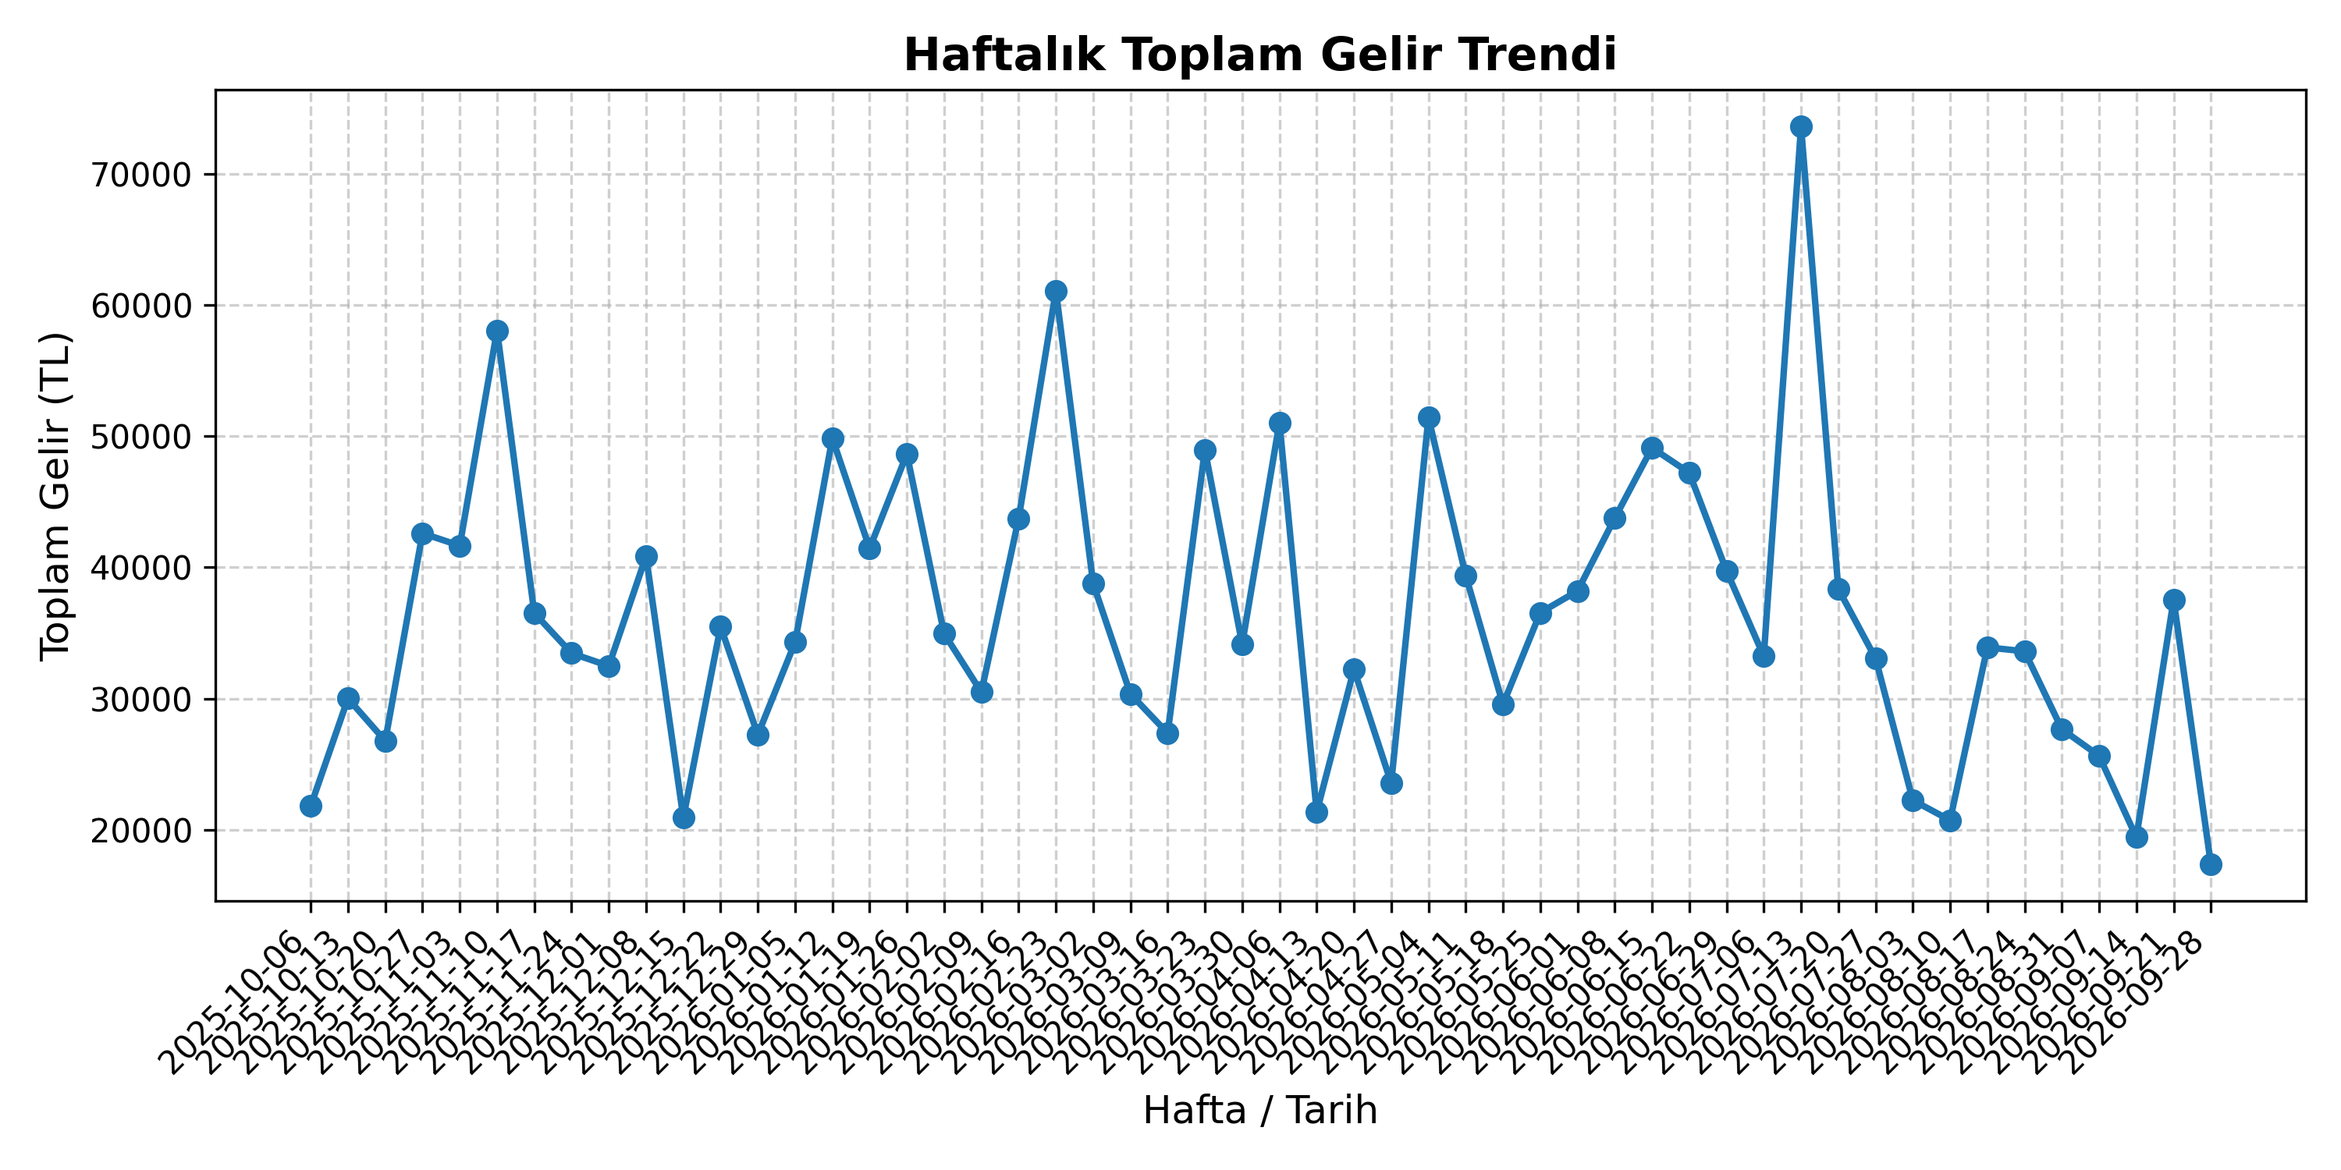
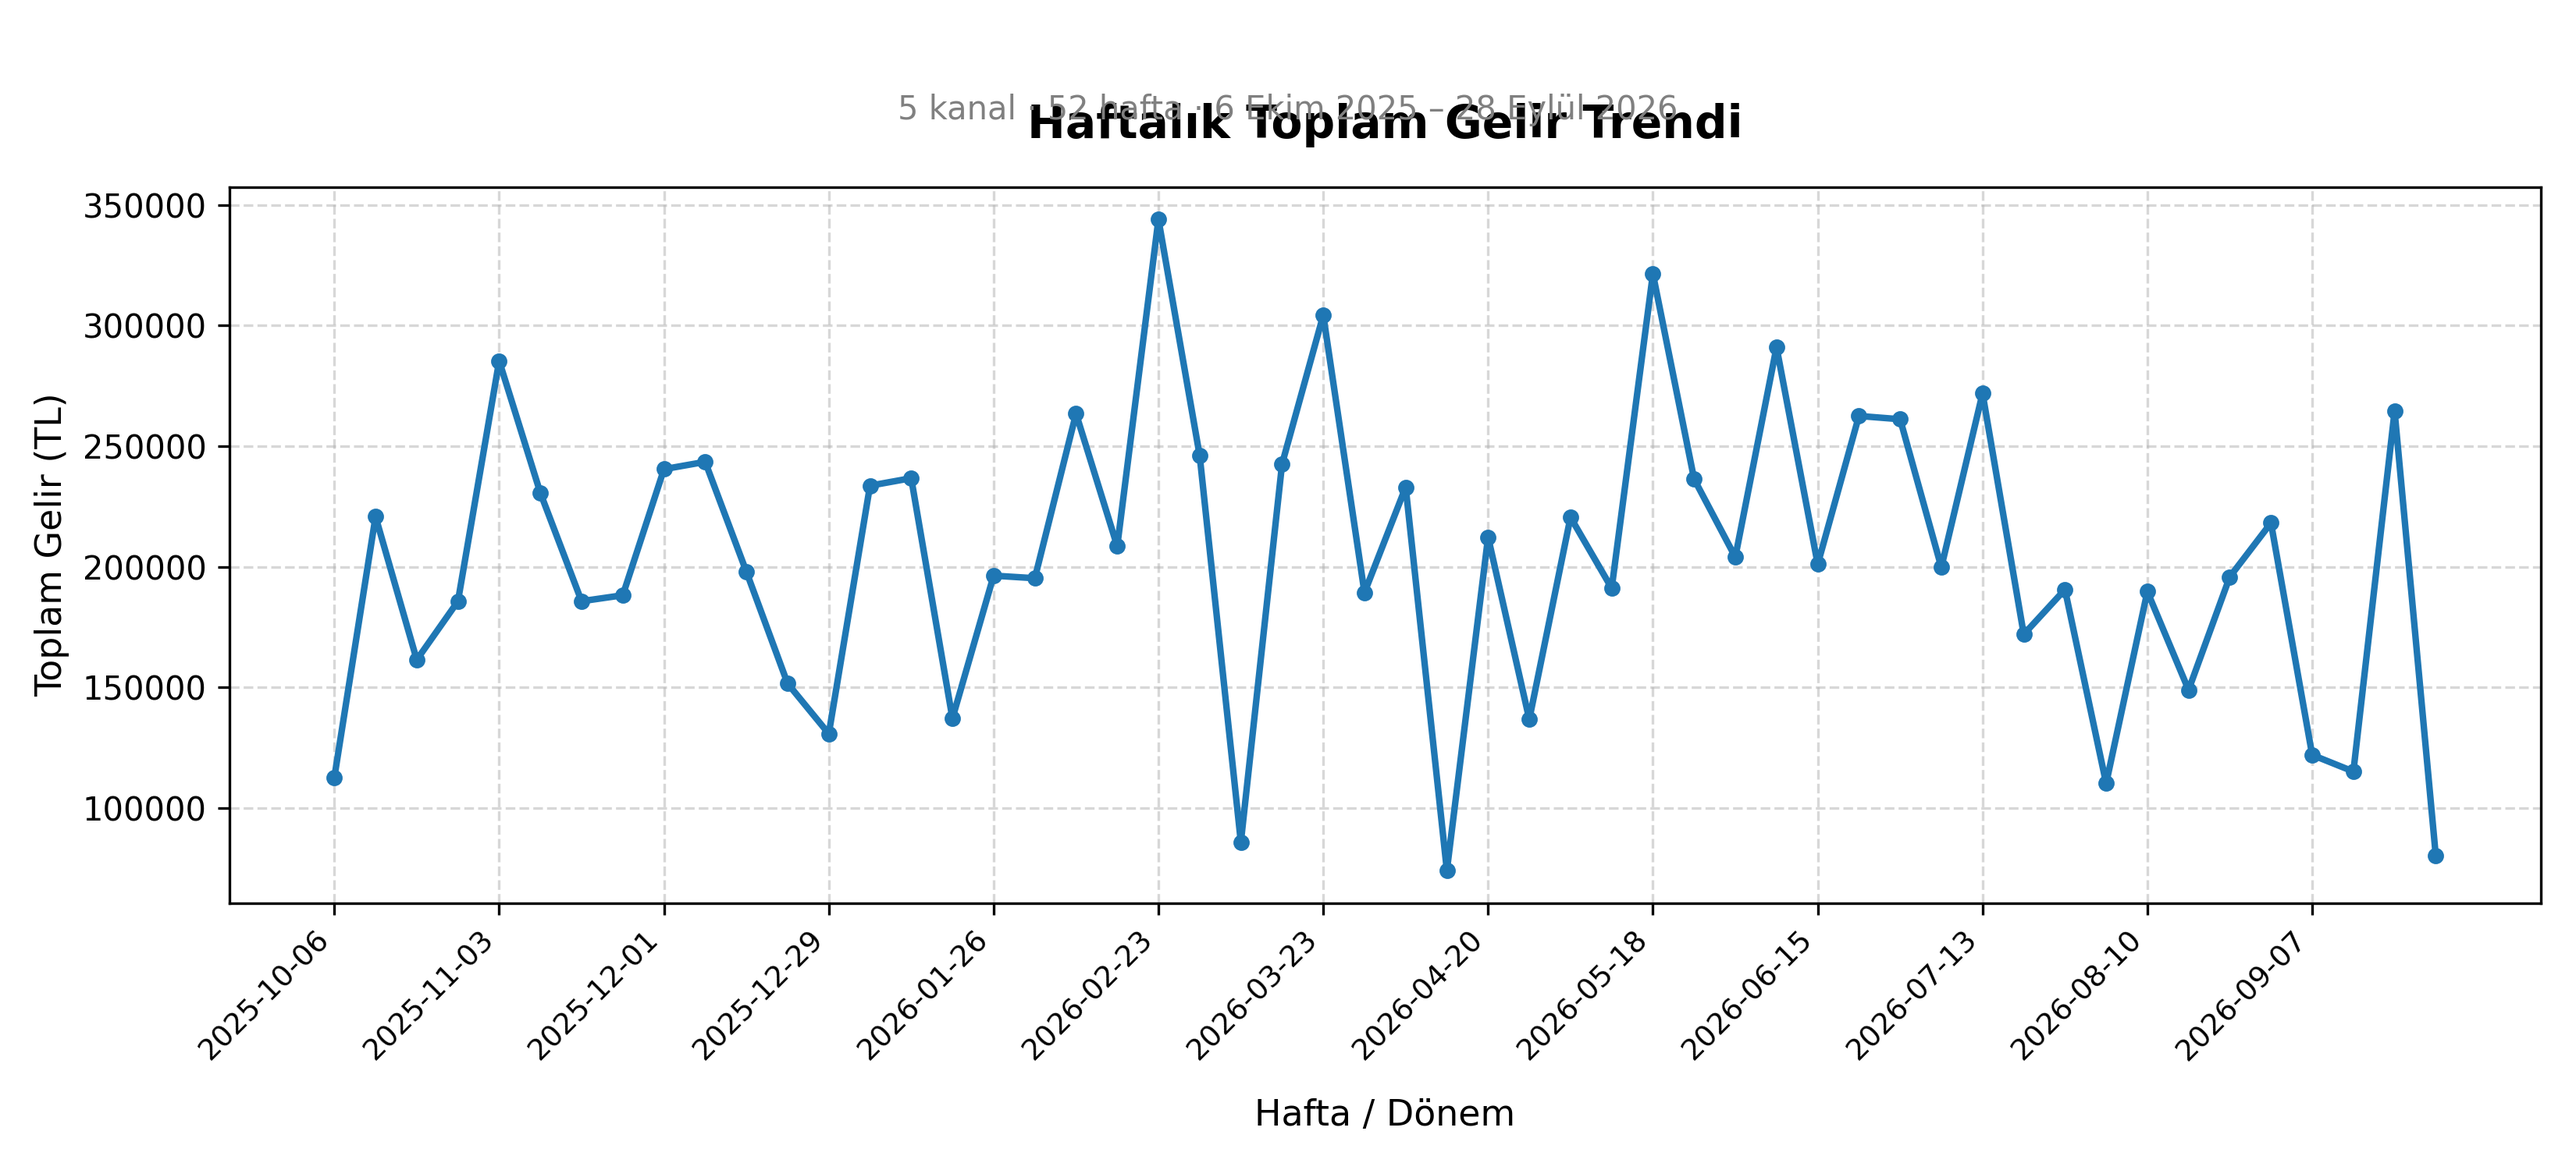
fix(fe): correct ROAS column calculation, clean x-axis ticks and add subtitle scope

diff --git a/generate_visuals.py b/generate_visuals.py
@@ -8,15 +8,31 @@ os.makedirs("visuals", exist_ok=True)
 # 260 satırlık asıl veriyi oku
 df = pd.read_csv("data/kampanya-performans.csv")
 
-# Sütun isimlerini küçük harfe çevirip düzenle
+# Sütun isimlerini küçük harfe çevirip temizle
 df.columns = df.columns.str.strip().str.lower()
 
-# Hafta veya Tarih sütununu bul
+# Sütun tespiti veya ROAS hesabı
+# Eğer roas sütunu yoksa gelir / harcama ile hesapla
+if "roas" in df.columns:
+    df["roas_val"] = df["roas"]
+elif "harcama_tl" in df.columns and "gelir_tl" in df.columns:
+    df["roas_val"] = df["gelir_tl"] / df["harcama_tl"]
+elif "harcama" in df.columns and "gelir" in df.columns:
+    df["roas_val"] = df["gelir"] / df["harcama"]
+else:
+    # Son sütun hariç roas içeren veya sayısal sütun bul
+    roas_cols = [c for c in df.columns if "roas" in c]
+    if roas_cols:
+        df["roas_val"] = df[roas_cols[0]]
+    else:
+        df["roas_val"] = df.iloc[:, -2]
+
+# Hafta ve Gelir Sütunları
 week_col = next(
     (
         c
         for c in df.columns
-        if any(k in c for k in ["hafta", "date", "tarih", "week"])
+        if any(k in c for k in ["hafta", "tarih", "date", "week"])
     ),
     df.columns[0],
 )
@@ -24,9 +40,9 @@ revenue_col = next(
     (
         c
         for c in df.columns
-        if any(k in c for k in ["gelir", "revenue", "harcama", "ciro"])
+        if any(k in c for k in ["gelir", "revenue", "ciro"])
     ),
-    df.columns[1],
+    "gelir_tl",
 )
 channel_col = next(
     (
@@ -34,56 +50,92 @@ channel_col = next(
         for c in df.columns
         if any(k in c for k in ["kanal", "channel", "medium"])
     ),
-    df.columns[2],
-)
-roas_col = next(
-    (c for c in df.columns if "roas" in c),
-    df.columns[-1] if len(df.columns) > 3 else df.columns[1],
+    "kanal",
 )
 
-# 1. Grafik: Zaman Serisi (Toplam Gelir)
-plt.figure(figsize=(10, 5))
-df_weekly = df.groupby(week_col)[revenue_col].sum().reset_index()
+# ---------------------------------------------------------
+# 1. GRAFİK: Zaman Serisi (Haftalık Toplam Gelir)
+# ---------------------------------------------------------
+plt.figure(figsize=(11, 5))
+df_weekly = df.groupby(week_col, as_index=False)[revenue_col].sum()
 
 plt.plot(
-    df_weekly[week_col].astype(str),
+    range(len(df_weekly)),
     df_weekly[revenue_col],
     marker="o",
+    markersize=4,
     linewidth=2,
     color="#1f77b4",
 )
-plt.title("Haftalık Toplam Gelir Trendi", fontsize=14, fontweight="bold")
-plt.xlabel("Hafta / Tarih", fontsize=12)
-plt.ylabel("Toplam Gelir (TL)", fontsize=12)
-plt.xticks(rotation=45, ha="right")
-plt.grid(True, linestyle="--", alpha=0.6)
+
+plt.title("Haftalık Toplam Gelir Trendi", fontsize=14, fontweight="bold", pad=15)
+plt.suptitle(
+    "5 kanal · 52 hafta · 6 Ekim 2025 – 28 Eylül 2026",
+    fontsize=10,
+    color="gray",
+    y=0.92,
+)
+
+# Etiketleri her 4 haftada bir (ayda bir) göstererek temizle
+weeks = df_weekly[week_col].astype(str).tolist()
+step = max(1, len(weeks) // 13)  # Yaklaşık ayda bir etiket
+plt.xticks(
+    range(0, len(weeks), step), weeks[::step], rotation=45, ha="right", fontsize=9
+)
+
+plt.xlabel("Hafta / Dönem", fontsize=11, labelpad=10)
+plt.ylabel("Toplam Gelir (TL)", fontsize=11)
+plt.grid(True, linestyle="--", alpha=0.5)
 plt.tight_layout()
 plt.savefig("visuals/gelir-zaman-serisi.png", dpi=300)
 plt.close()
 
-# 2. Grafik: Kırılım (Kanala Göre ROAS)
+# ---------------------------------------------------------
+# 2. GRAFİK: Kırılım (Kanala Göre Ortalama ROAS)
+# ---------------------------------------------------------
 plt.figure(figsize=(10, 5))
-df_channel = df.groupby(channel_col)[roas_col].mean().reset_index()
+df_channel = df.groupby(channel_col, as_index=False)["roas_val"].mean()
 
-bars = plt.bar(df_channel[channel_col], df_channel[roas_col], color="#2ca02c")
-plt.title("Pazarlama Kanalına Göre Ortalama ROAS", fontsize=14, fontweight="bold")
-plt.xlabel("Kanal", fontsize=12)
-plt.ylabel("ROAS (x)", fontsize=12)
+bars = plt.bar(
+    df_channel[channel_col],
+    df_channel["roas_val"],
+    color="#2ca02c",
+    width=0.55,
+)
 
+plt.title(
+    "Pazarlama Kanalına Göre Ortalama ROAS", fontsize=14, fontweight="bold", pad=15
+)
+plt.suptitle(
+    "5 kanal · 52 hafta · 6 Ekim 2025 – 28 Eylül 2026",
+    fontsize=10,
+    color="gray",
+    y=0.92,
+)
+
+plt.xlabel("Kanal", fontsize=11, labelpad=10)
+plt.ylabel("Ortalama ROAS (x)", fontsize=11)
+
+# Çubukların üzerine ROAS değerlerini yaz (ör. 12.45x)
+max_y = df_channel["roas_val"].max()
 for bar in bars:
     yval = bar.get_height()
     plt.text(
         bar.get_x() + bar.get_width() / 2,
-        yval + 0.05,
+        yval + (max_y * 0.02),
         f"{yval:.2f}x",
         ha="center",
         va="bottom",
         fontsize=10,
+        fontweight="bold",
     )
 
-plt.grid(axis="y", linestyle="--", alpha=0.6)
+plt.ylim(0, max_y * 1.15)
+plt.grid(axis="y", linestyle="--", alpha=0.5)
 plt.tight_layout()
 plt.savefig("visuals/kanal-kirilim.png", dpi=300)
 plt.close()
 
-print("Grafikler 260 satırlık asıl veriden başarıyla üretildi!")
+print(
+    "Düzeltilmiş grafikler 'visuals/' klasörüne başarıyla kaydedildi!"
+)
